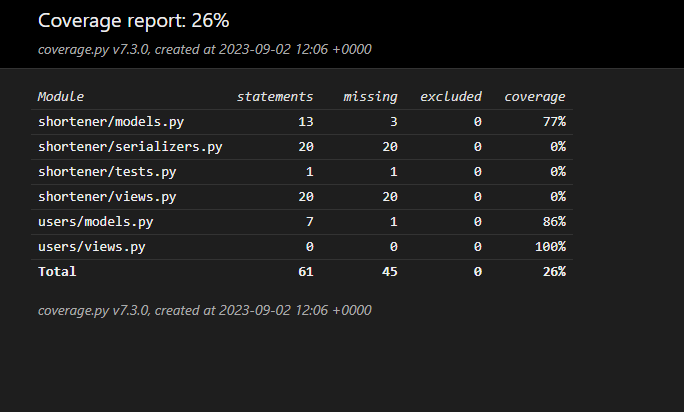
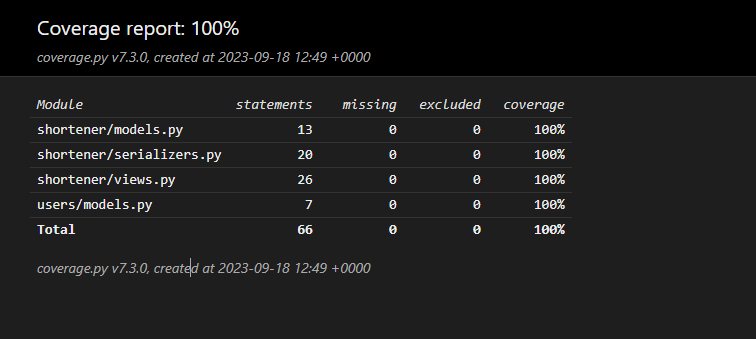
tested application

diff --git a/api/shortener/tests/test_views.py b/api/shortener/tests/test_views.py
@@ -1,0 +1,70 @@
+import shortuuid
+from django.core.cache import cache
+from django.shortcuts import get_object_or_404
+from django.urls import reverse
+from rest_framework import status
+
+from shortener.models import URL
+from shortener.views import ShortUrlRedirectView
+
+
+def test_create_short_url(api_client, db):
+    url = "/api/v1/urls/"
+    data = {"url": "https://test.com.pl"}
+    response = api_client.post(url, data)
+    assert response.status_code == status.HTTP_201_CREATED
+    assert URL.objects.get(url="https://test.com.pl").short_url == shortuuid.uuid("https://test.com.pl")
+
+
+def test_create_short_url_wrong_url(api_client, db):
+    url = reverse("shortener:shorten_url")
+    data = {"url": "testcompl"}
+    response = api_client.post(url, data)
+    assert response.status_code == status.HTTP_400_BAD_REQUEST
+    assert 'Enter a valid URL.' in response.data["url"]
+    assert len(URL.objects.all()) == 0
+
+
+def test_create_short_url_this_same_data(api_client, sample_url):
+    url = reverse("shortener:shorten_url")
+    data = {"url": "http://www.example.com"}
+    response = api_client.post(url, data)
+    assert response.status_code == status.HTTP_201_CREATED
+    assert URL.objects.get(url="http://www.example.com").short_url == sample_url.short_url
+    assert len(URL.objects.all()) == 1
+
+
+def test_redirect_existing_short_url(api_client, sample_url):
+    short_url = sample_url.short_url
+    url = reverse("shortener:redirect", args=[short_url])
+    response = api_client.get(url)
+    assert response.status_code == status.HTTP_302_FOUND
+    assert response.url == "http://www.example.com"
+
+
+def test_redirect_not_existing_short_url(api_client, sample_url):
+    short_url = "nonexistent"
+    url = reverse("shortener:redirect", args=[short_url])
+    response = api_client.get(url)
+    assert response.status_code == status.HTTP_404_NOT_FOUND
+
+
+def test_cache_hit(sample_url, *args, **kwargs):
+    short_url = sample_url.short_url
+    url = cache.get(short_url)
+
+    assert url == "http://www.example.com"
+
+
+def test_cache_miss(sample_url, api_client):
+    cache.clear()
+    short_url = sample_url.short_url
+    url_cache_before = cache.get(short_url)
+    url = reverse("shortener:redirect", args=[short_url])
+    response = api_client.get(url)
+    url_cache_after = cache.get(short_url)
+
+    assert response.status_code == status.HTTP_302_FOUND
+    assert response.url == "http://www.example.com"
+    assert url_cache_before == None
+    assert url_cache_after == 'http://www.example.com'

diff --git a/api/shortener/tests/test_model.py b/api/shortener/tests/test_model.py
@@ -1,0 +1,32 @@
+from shortener.models import URL
+
+
+def test_representation_url_str(sample_url):
+    assert str(sample_url) == "http://www.example.com -> A4PKXTx5VKTjE4BnM6EkuL"
+
+
+def test_representation_long_url_str(sample_long_url):
+    assert str(sample_long_url) == "https://pytest-django.readthed -> RoFXW9P2T4vQFsLPqcVBU4"
+    assert len(str(sample_long_url).split()[0]) == 30
+
+
+def test_creation_url(sample_url):
+    assert sample_url.created_at is not None
+    assert sample_url.pk is not None
+    assert sample_url.url == "http://www.example.com"
+    assert sample_url.short_url == "A4PKXTx5VKTjE4BnM6EkuL"
+
+
+def test_mirroring_url(db):
+    url1 = URL.objects.create(
+        url="http://www.example1.com",
+        short_url="example1",
+    )
+
+    url2 = URL.objects.create(
+        url="http://www.example1.com",
+        short_url="example1",
+    )
+
+    assert URL.objects.get(url="http://www.example1.com").created_at == url1.created_at
+    assert URL.objects.filter(url="http://www.example1.com").count() == 1

diff --git a/api/conftest.py b/api/conftest.py
@@ -1,6 +1,31 @@
 import pytest
+import shortuuid
+from django.contrib.auth import get_user_model
+
+from shortener.models import URL
+from rest_framework.test import APIClient
 
 
 @pytest.fixture
-def magic():
-    return 42
+def sample_url(db):
+    return URL.objects.create(url="http://www.example.com", short_url=shortuuid.uuid(name="http://www.example.com"))
+
+
+@pytest.fixture
+def sample_user(db):
+    user = get_user_model().objects.create_user(username="Test_user", email="a@a.pl", password="Test123456")
+    return user
+
+
+@pytest.fixture
+def sample_long_url(db):
+    return URL.objects.create(
+        url="https://pytest-django.readthedocs.io/en/latest/tutorial.html#introduction",
+        short_url=shortuuid.uuid(
+            name="https://pytest-django.readthedocs.io/en/latest/tutorial.html#introduction"))
+
+
+@pytest.fixture
+def api_client():
+    client = APIClient()
+    return client

diff --git a/api/shortener/views.py b/api/shortener/views.py
@@ -46,15 +46,6 @@ class CreateShortURLApiView(generics.CreateAPIView):
 
 
 class ShortUrlRedirectView(RedirectView):
-    """
-    get:
-    Redirects the user to the original URL from the provided short URL.
-    Expected the short URLto be part of the path, like:
-    "https://salty-eyrie-21851-de0797a7d781.herokuapp.com/abcd123"
-    Where "abcd123" is the short URL.
-
-    The response is a HTTP 302 redirect to the original URL.
-    """
 
     def get_redirect_url(self, *args: Any, short_url: str, **kwargs: Any) -> str | None:
         url = cache.get(short_url)

diff --git a/api/shortener/models.py b/api/shortener/models.py
@@ -1,6 +1,5 @@
-from django.db import models
 
-# Create your models here.
+from django.db import models
 
 
 class URL(models.Model):
@@ -18,3 +17,5 @@ class URL(models.Model):
     def save(self, *args, **kwargs):
         if not len(URL.objects.filter(short_url=self.short_url)):
             super().save(*args, **kwargs)
+
+

diff --git a/api/users/tests/test_model.py b/api/users/tests/test_model.py
@@ -1,0 +1,2 @@
+def test_representation_user_str(sample_user):
+    assert str(sample_user) == "Test_user"
